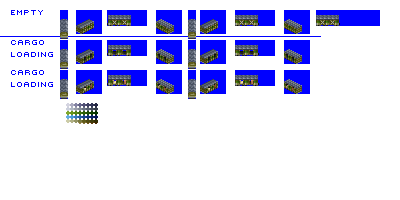
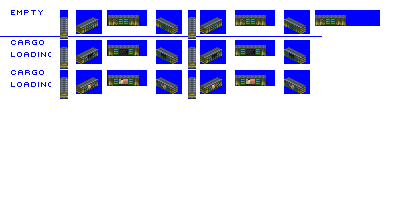
Change: (WIP) gen 2 fruit car sprite (supermop)

diff --git a/src/vehicles/fruit_cars.py b/src/vehicles/fruit_cars.py
@@ -69,8 +69,8 @@ def main():
 
     consist.add_unit(BoxCar(consist = consist,
                             capacity_freight = 30,
-                            weight = 14,
-                            vehicle_length = 6))
+                            weight = 18,
+                            vehicle_length = 8))
 
     options = {'template': 'fruit_car_ng_antelope_gen_2_template.png'}
 
